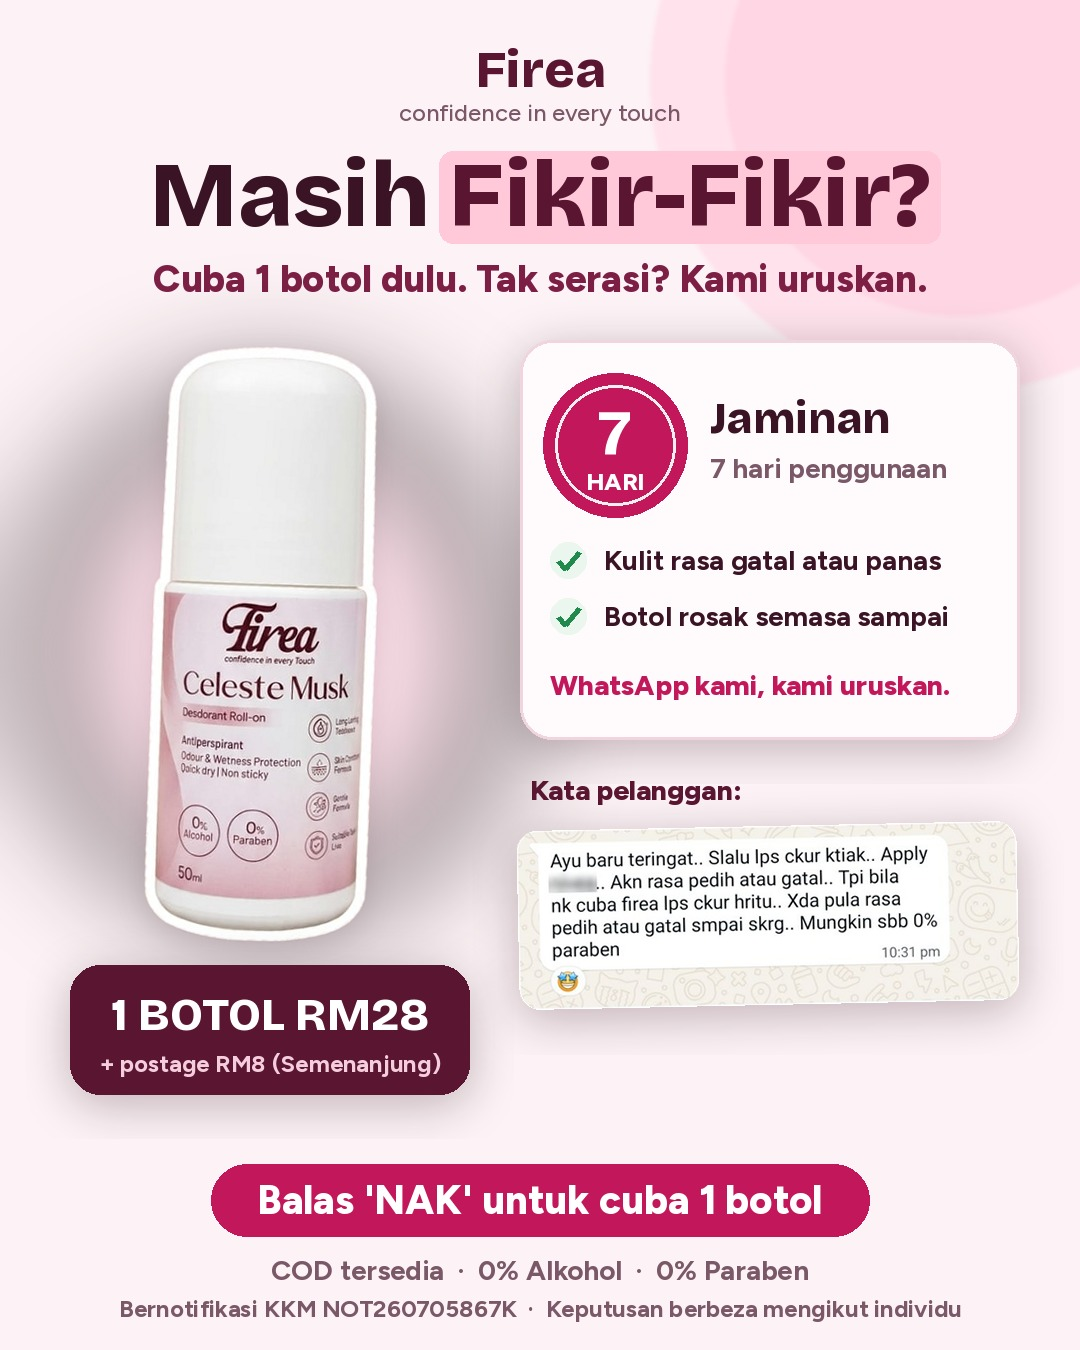
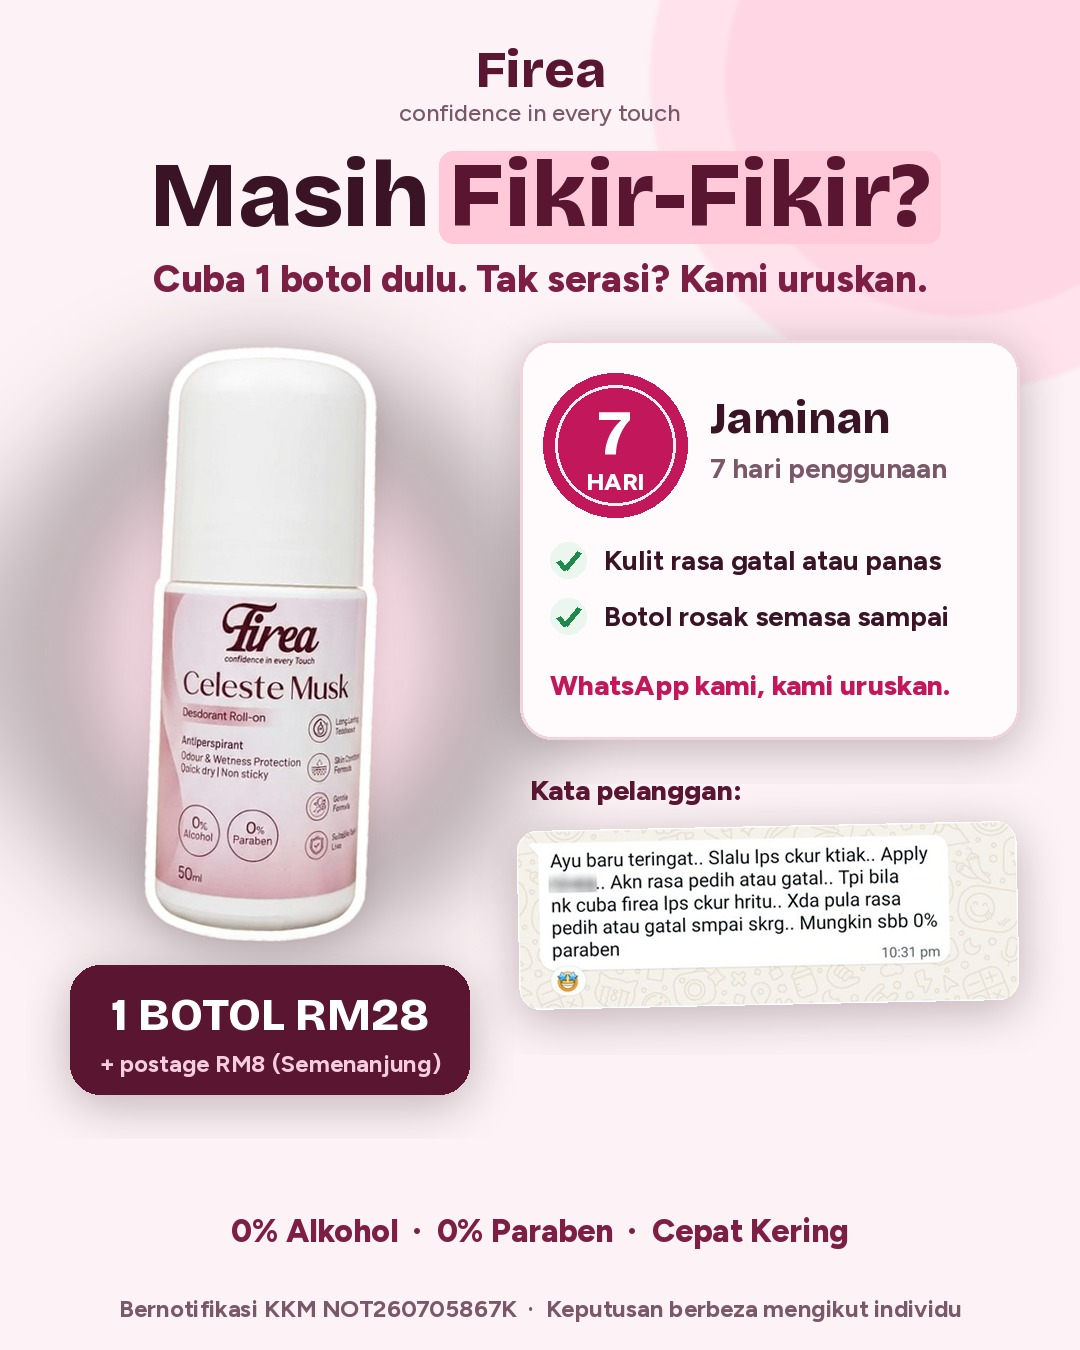
Drop COD line and reply CTA from follow-up poster
Claude-Session: https://claude.ai/code/session_01FgdAy58wajktQYLn5mzK8A

Changed region(s): [[0.1833, 0.84, 0.825, 0.9644]]

diff --git a/firea/posters/make_posters.py b/firea/posters/make_posters.py
@@ -305,8 +305,7 @@ def poster_followup_cuba():
     chat = rounded(fit(load("wa/wa-11.jpg"), rx1 - rx0), 20)
     shadow_paste(base, chat.rotate(1.2, resample=Image.BICUBIC, expand=True), (rx0 - 4, 820))
     # CTA
-    pill(d, W / 2, 1200, "Balas 'NAK' untuk cuba 1 botol", F("Figtree800", 40), ROSE, WHITE, 46, 22)
-    text(d, (W / 2, 1270), "COD tersedia  ·  0% Alkohol  ·  0% Paraben", F("Figtree700", 28), MUTED, "mm")
+    text(d, (W / 2, 1230), "0% Alkohol  ·  0% Paraben  ·  Cepat Kering", F("Figtree800", 32), BERRY2, "mm")
     footer(base, "Bernotifikasi KKM NOT260705867K  ·  Keputusan berbeza mengikut individu")
     save(base, "9-followup-cuba-1-botol")
 
